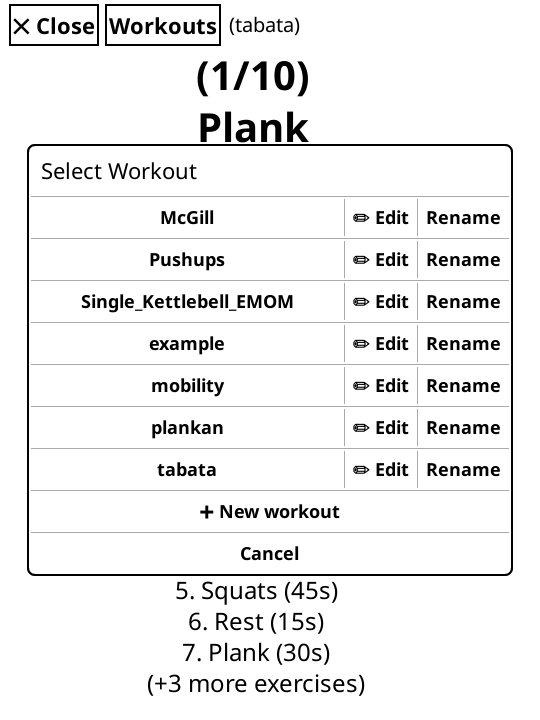
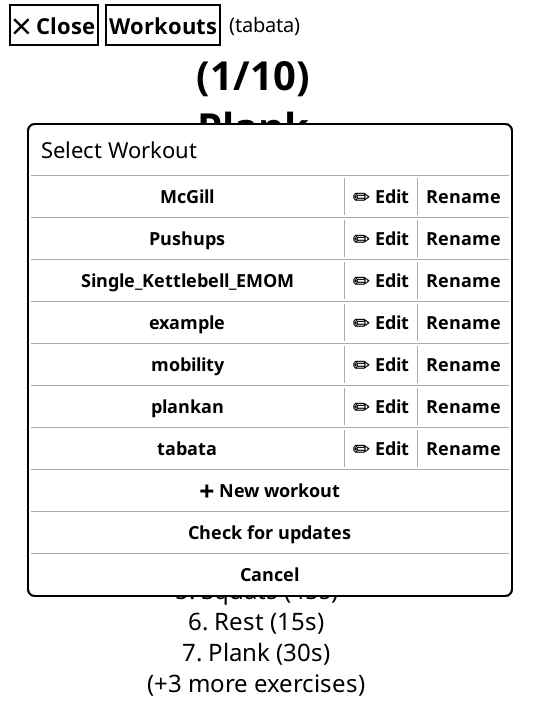
Implemented an updater

diff --git a/README.md b/README.md
@@ -16,6 +16,7 @@ A clean, customizable Tabata and interval training timer plugin for [KOReader](h
 - **Manual & Step Controls:** Starts in paused state; control workout flow with `▶ Start` / `⏸ Pause`, `⏮ Previous`, and `Next ⏭` buttons.
 - **Upcoming Exercises Preview:** Displays the next 6 scheduled exercises and count of remaining intervals.
 - **Multiple Workout Routines, On-Device Editing & Renaming:** Switch workouts anytime from the **Workouts** menu, rename routines (updating `.csv` files automatically), and edit any workout's `.csv` file directly on your device using the built-in editor.
+- **Over-The-Air (Wi-Fi) Updates:** Check for updates directly from GitHub over Wi-Fi with intelligent workout conflict resolution (keep local version, overwrite, or save as `.new.csv`).
 
 ---
 
